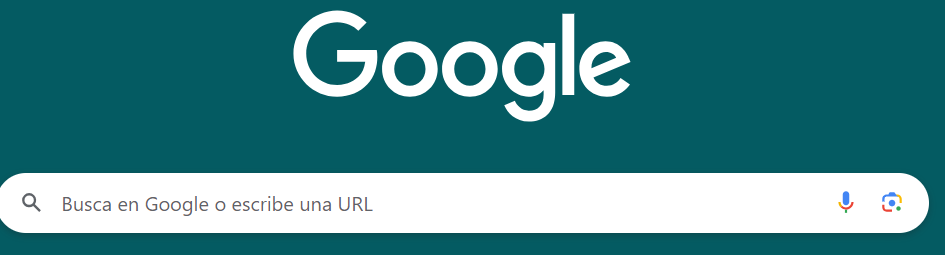
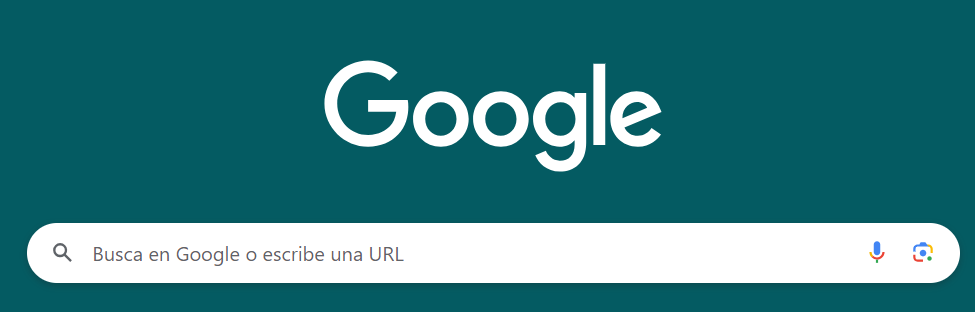
avance6

Changed region(s): [[0.0, 0.6588, 1.0, 0.9333], [0.3069, 0.0275, 0.6751, 0.549]]

diff --git a/tips_elemntos.html b/tips_elemntos.html
@@ -1,0 +1,85 @@
+<!DOCTYPE html>
+<html lang="es">
+<head>
+    <meta charset="UTF-8">
+    <meta name="viewport" content="width=device-width, initial-scale=1.0">
+    <title>Menú con Logotipo</title>
+    <link rel="stylesheet" href="css/style.css">
+</head>
+<body>
+    <header>
+        <div class="logo">
+            <img src="https://cdn-icons-png.flaticon.com/512/65/65381.png" alt="Logotipo">
+        </div>
+        <nav class="navbar">
+            <ul>
+                <li><a href="index.html">Diseño responsivo</a></li>
+                <li><a href="funcionamiento.html">Funcionamiento del dieño responsivo</a></li>
+                <li><a href="tips_elemntos.html">Tips y elementos</a></li>
+            </ul>
+        </nav>
+    </header>
+   
+    <div class="banner">
+    <img src="Imagenes/web2.png" alt="banner">
+    </div>
+
+    <div class="content-section">
+        <div class="image-container">
+            <img src="Imagenes/web3.jpg" alt="Imagen de Ejemplo">
+            <div class="overlay-text">Diseño Responsivo</div>
+        </div>
+        <div class="text-container" >
+            <h2>¿Que es?</h2>
+            <p>El diseño responsivo es un formato de programación que permite que un sitio web se adapte automáticamente al tamaño y diseño del dispositivo del usuario. 
+                Los sitios web responsivos están rediseñados para brindar la mejor experiencia a los visitantes en teléfonos inteligentes, tabletas o computadoras de escritorio. 
+            </p>
+        </div>
+    </div>
+    
+    <div class="separator">
+        <img src="https://media.istockphoto.com/id/1308682666/es/vector/fondo-suave-degradado-azul.jpg?s=612x612&w=0&k=20&c=pRhiwbkG31ct10kuqAe9GX7gfBWzW-PVYjorTK34tYw=" alt="Separador">
+    </div>
+
+    
+    <div class="additional-section">
+        <h2>IMPORTANCIA EN INFORMATICA</h2>
+        <p>En primer lugar, el diseño web responsivo reduce el tiempo de desarrollo, permite que el contenido se vuelva viral (compartido entre dispositivos) y elimina la duplicación. Diseño Web Responsivo y su Importancia Hoy en día:</p> 
+
+           <ul>
+            <li><b>Nuevas formas de consumo de Internet:</b> 
+            Como ya se ha comentado, la tendencia actual es el uso de múltiples conexiones, con especial foco en el uso de smartphones. Por tanto, un sitio web responsivo se vuelve muy necesario. </li>
+            <li><b>Mejor experiencia de usuario: </b>
+                Mejor experiencia de usuario: Un sitio web con una experiencia de usuario satisfactoria significa mejores interacciones y más conocimiento de la marca y, por tanto, mejora la imagen de marca. </li>
+            <li><b>Un factor clave para el SEO:</b>
+                Si su sitio no está optimizado para dispositivos móviles (incluso antes que para computadoras de escritorio), su clasificación puede ser peor. La cuestión es que si no tienes un diseño web responsivo, vas a perder mucho tráfico .</li>
+                
+                <div class="image-container2">
+                    <img src="https://www.aeuroweb.com/wp-content/uploads/2018/02/Que-es-el-diseno-responsive.jpg" alt="Imagen">
+                </div>   
+            </ul>
+                          
+    </div>
+
+    
+    <div class="separator">
+        <img src="https://media.istockphoto.com/id/1308682666/es/vector/fondo-suave-degradado-azul.jpg?s=612x612&w=0&k=20&c=pRhiwbkG31ct10kuqAe9GX7gfBWzW-PVYjorTK34tYw=" alt="Separador">
+    </div>
+
+    
+    <div class="final-section">
+
+        <h2>Ejemplo de diseño responsive</h2>
+        <center><img src="Imagenes/google.png" alt=""></center>
+        <center><p>Google es uno de los mejores ejemplos de diseño responsivo, ya que fue una de las primeras plataformas en implementar estos formatos en su navegación móvil.
+            Inicialmente, el buscador solo muestra la barra de búsqueda y algunas opciones para cambiar el idioma o aplicar filtros adicionales. Actualmente, la empresa ha adoptado todos los dispositivos móviles ya que incluyen opciones y funciones exclusivas. Por ejemplo, utilizando un motor de búsqueda de imágenes, puedes tomar fotografías con la cámara de tu dispositivo y usarlas para encontrar resultados similares.
+            Su diseño minimalista y sus botones de acción permiten ampliar menús, acceder a perfiles de usuario y ver aplicaciones disponibles</p>
+            </div></center>
+
+    
+    <footer class="pie-de-pagina">
+        <p>&copy; 2024 Hervin Isai Campillo Pérez</p>
+    </footer>
+        
+</body>
+</html>

diff --git a/funcionamiento.html b/funcionamiento.html
@@ -1,0 +1,85 @@
+<!DOCTYPE html>
+<html lang="es">
+<head>
+    <meta charset="UTF-8">
+    <meta name="viewport" content="width=device-width, initial-scale=1.0">
+    <title>Menú con Logotipo</title>
+    <link rel="stylesheet" href="css/style.css">
+</head>
+<body>
+    <header>
+        <div class="logo">
+            <img src="https://cdn-icons-png.flaticon.com/512/65/65381.png" alt="Logotipo">
+        </div>
+        <nav class="navbar">
+            <ul>
+                <li><a href="index.html">Diseño responsivo</a></li>
+                <li><a href="funcionamiento.html">Funcionamiento del dieño responsivo</a></li>
+                <li><a href="tips_elemntos.html">Tips y elementos</a></li>
+            </ul>
+        </nav>
+    </header>
+   
+    <div class="banner">
+    <img src="" alt="banner">
+    </div>
+
+    <div class="content-section">
+        <div class="image-container">
+            <img src="" alt="Imagen de Ejemplo">
+            <div class="overlay-text">Diseño Responsivo</div>
+        </div>
+        <div class="text-container" >
+            <h2>¿Que es?</h2>
+            <p>El diseño responsivo es un formato de programación que permite que un sitio web se adapte automáticamente al tamaño y diseño del dispositivo del usuario. 
+                Los sitios web responsivos están rediseñados para brindar la mejor experiencia a los visitantes en teléfonos inteligentes, tabletas o computadoras de escritorio. 
+            </p>
+        </div>
+    </div>
+    
+    <div class="separator">
+        <img src="https://media.istockphoto.com/id/1308682666/es/vector/fondo-suave-degradado-azul.jpg?s=612x612&w=0&k=20&c=pRhiwbkG31ct10kuqAe9GX7gfBWzW-PVYjorTK34tYw=" alt="Separador">
+    </div>
+
+    
+    <div class="additional-section">
+        <h2>IMPORTANCIA EN INFORMATICA</h2>
+        <p>En primer lugar, el diseño web responsivo reduce el tiempo de desarrollo, permite que el contenido se vuelva viral (compartido entre dispositivos) y elimina la duplicación. Diseño Web Responsivo y su Importancia Hoy en día:</p> 
+
+           <ul>
+            <li><b>Nuevas formas de consumo de Internet:</b> 
+            Como ya se ha comentado, la tendencia actual es el uso de múltiples conexiones, con especial foco en el uso de smartphones. Por tanto, un sitio web responsivo se vuelve muy necesario. </li>
+            <li><b>Mejor experiencia de usuario: </b>
+                Mejor experiencia de usuario: Un sitio web con una experiencia de usuario satisfactoria significa mejores interacciones y más conocimiento de la marca y, por tanto, mejora la imagen de marca. </li>
+            <li><b>Un factor clave para el SEO:</b>
+                Si su sitio no está optimizado para dispositivos móviles (incluso antes que para computadoras de escritorio), su clasificación puede ser peor. La cuestión es que si no tienes un diseño web responsivo, vas a perder mucho tráfico .</li>
+                
+                <div class="image-container2">
+                    <img src="https://www.aeuroweb.com/wp-content/uploads/2018/02/Que-es-el-diseno-responsive.jpg" alt="Imagen">
+                </div>   
+            </ul>
+                          
+    </div>
+
+    
+    <div class="separator">
+        <img src="https://media.istockphoto.com/id/1308682666/es/vector/fondo-suave-degradado-azul.jpg?s=612x612&w=0&k=20&c=pRhiwbkG31ct10kuqAe9GX7gfBWzW-PVYjorTK34tYw=" alt="Separador">
+    </div>
+
+    
+    <div class="final-section">
+
+        <h2>Ejemplo de diseño responsive</h2>
+        <center><img src="" alt=""></center>
+        <center><p>Google es uno de los mejores ejemplos de diseño responsivo, ya que fue una de las primeras plataformas en implementar estos formatos en su navegación móvil.
+            Inicialmente, el buscador solo muestra la barra de búsqueda y algunas opciones para cambiar el idioma o aplicar filtros adicionales. Actualmente, la empresa ha adoptado todos los dispositivos móviles ya que incluyen opciones y funciones exclusivas. Por ejemplo, utilizando un motor de búsqueda de imágenes, puedes tomar fotografías con la cámara de tu dispositivo y usarlas para encontrar resultados similares.
+            Su diseño minimalista y sus botones de acción permiten ampliar menús, acceder a perfiles de usuario y ver aplicaciones disponibles</p>
+            </div></center>
+
+    
+    <footer class="pie-de-pagina">
+        <p>&copy; 2024 Hervin Isai Campillo Pérez</p>
+    </footer>
+        
+</body>
+</html>

diff --git a/index.html b/index.html
@@ -9,7 +9,7 @@
 <body>
     <header>
         <div class="logo">
-            <img src="logo.png" alt="Logotipo">
+            <img src="https://cdn-icons-png.flaticon.com/512/65/65381.png" alt="Logotipo">
         </div>
         <nav class="navbar">
             <ul>
@@ -70,10 +70,11 @@
     <div class="final-section">
 
         <h2>Ejemplo de diseño responsive</h2>
-        <p>Google es uno de los mejores ejemplos de diseño responsivo, ya que fue una de las primeras plataformas en implementar estos formatos en su navegación móvil.
+        <center><img src="Imagenes/google.png" alt=""></center>
+        <center><p>Google es uno de los mejores ejemplos de diseño responsivo, ya que fue una de las primeras plataformas en implementar estos formatos en su navegación móvil.
             Inicialmente, el buscador solo muestra la barra de búsqueda y algunas opciones para cambiar el idioma o aplicar filtros adicionales. Actualmente, la empresa ha adoptado todos los dispositivos móviles ya que incluyen opciones y funciones exclusivas. Por ejemplo, utilizando un motor de búsqueda de imágenes, puedes tomar fotografías con la cámara de tu dispositivo y usarlas para encontrar resultados similares.
             Su diseño minimalista y sus botones de acción permiten ampliar menús, acceder a perfiles de usuario y ver aplicaciones disponibles</p>
-    </div>
+            </div></center>
 
     
     <footer class="pie-de-pagina">

diff --git a/css/style.css b/css/style.css
@@ -32,7 +32,7 @@ header {
 .navbar a {
     display: inline-block;
     padding: 10px 20px;
-    background-color: #0deca2; 
+    background-color: #02bdad; 
     color: white;
     text-decoration: none;
     border-radius: 51px; 
@@ -140,24 +140,42 @@ header {
     font-size: 42px; 
     font-weight: bold; 
     text-align: justify;
+    text-align: center;
 }
 
-.additional-section p, .final-section p {
+.additional-section p{
     color: #000000; /* Color del texto del párrafo */
     font-size: 18px; /* Tamaño del texto del párrafo */
     line-height: 1.6; /* Altura de línea del párrafo */
     margin: 0;
+    max-width: 800px;
+    padding: 10px; 
     text-align: justify;
+    
    
 }
 
 .additional-section li {
     color: #000000; 
     font-size: 18px;
-    line-height: 1.5; /* Altura de línea del párrafo */
+    line-height: 1.6; /* Altura de línea del párrafo */
     margin: 0;
     max-width: 800px;
     padding: 10px; 
+    text-align: justify;
+    
+}
+.final-section p {
+    color: #000000; /* Color del texto del párrafo */
+    font-size: 18px; /* Tamaño del texto del párrafo */
+    line-height: 1.6; /* Altura de línea del párrafo */
+    margin: 0;
+    max-width: 800px;
+    padding: 10px; 
+    text-align: center;
+    
+    
+   
 }
 
 .image-container2 {
